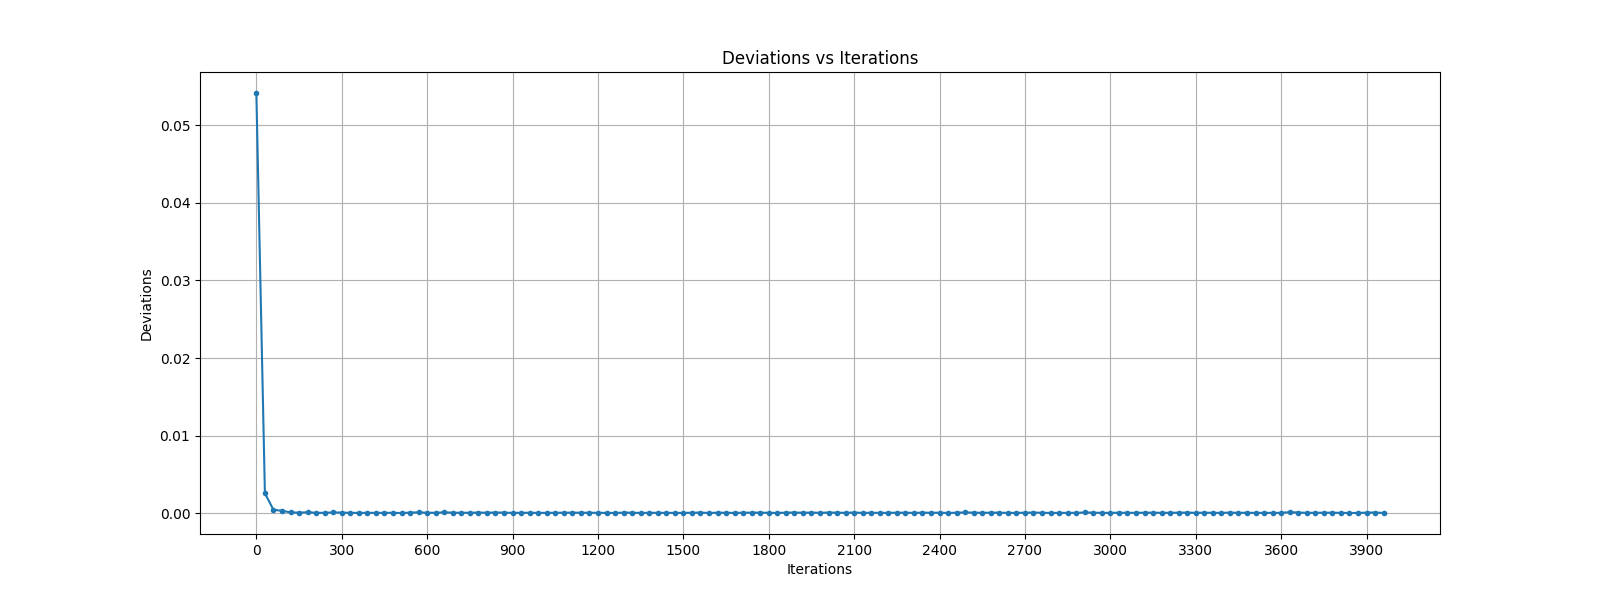
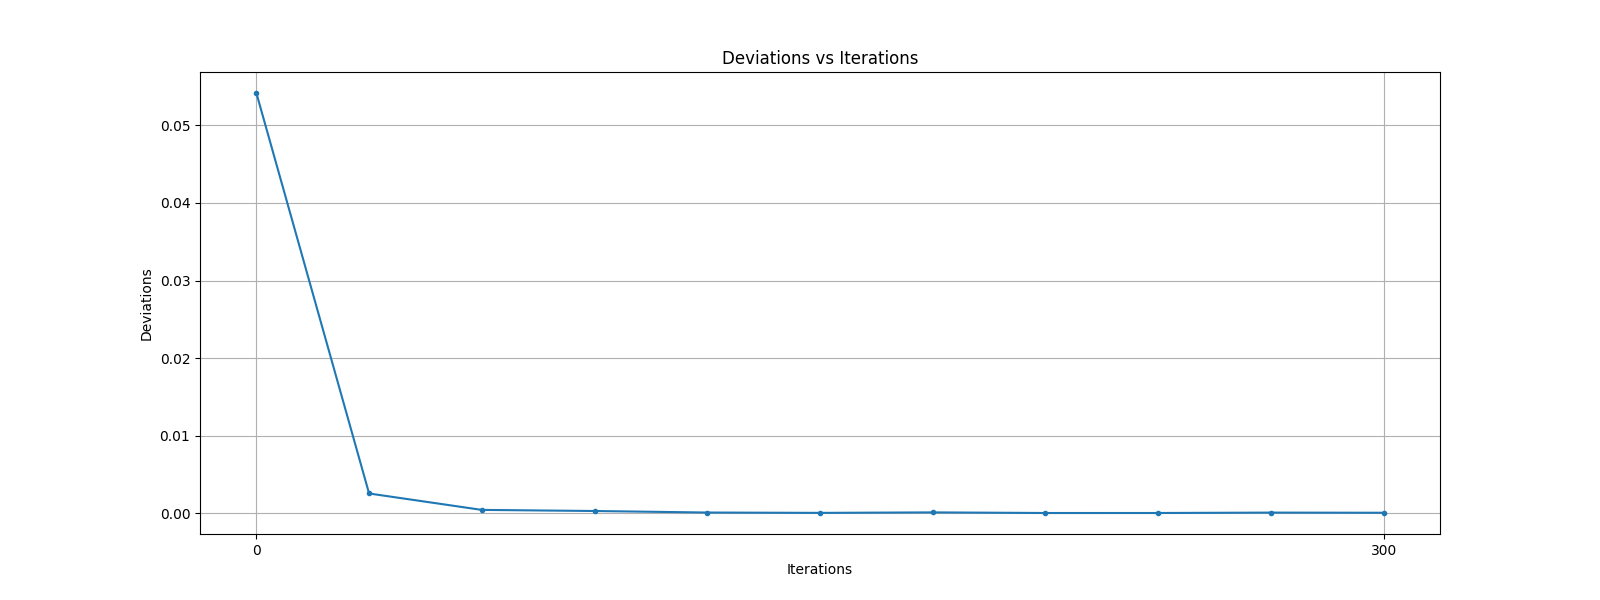
sistemato un grafico

diff --git a/graphDev.py b/graphDev.py
@@ -2,7 +2,7 @@ import pandas as pd
 import matplotlib.pyplot as plt
 
 # Load the data from CSV
-df = pd.read_csv("SyncDeviations_8.csv")
+df = pd.read_csv("AsyncDeviations_8.csv")
 
 # Extracting data from the DataFrame
 deviation = df[' deviation']
@@ -25,5 +25,5 @@ plt.title('Deviations vs Iterations')
 plt.grid(True)
 
 # Saving and showing the plot
-plt.savefig('SyncDeviations_8.png')
+plt.savefig('AsyncDeviations_8.png')
 plt.show()
